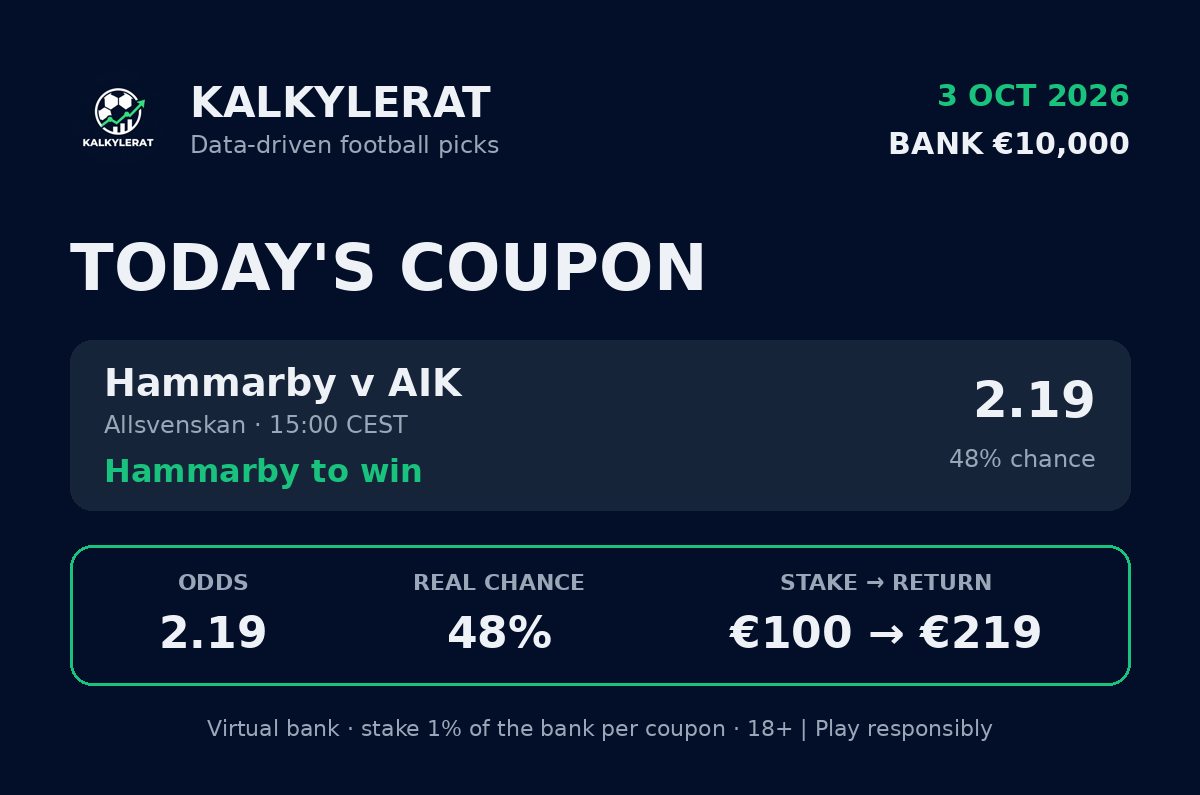
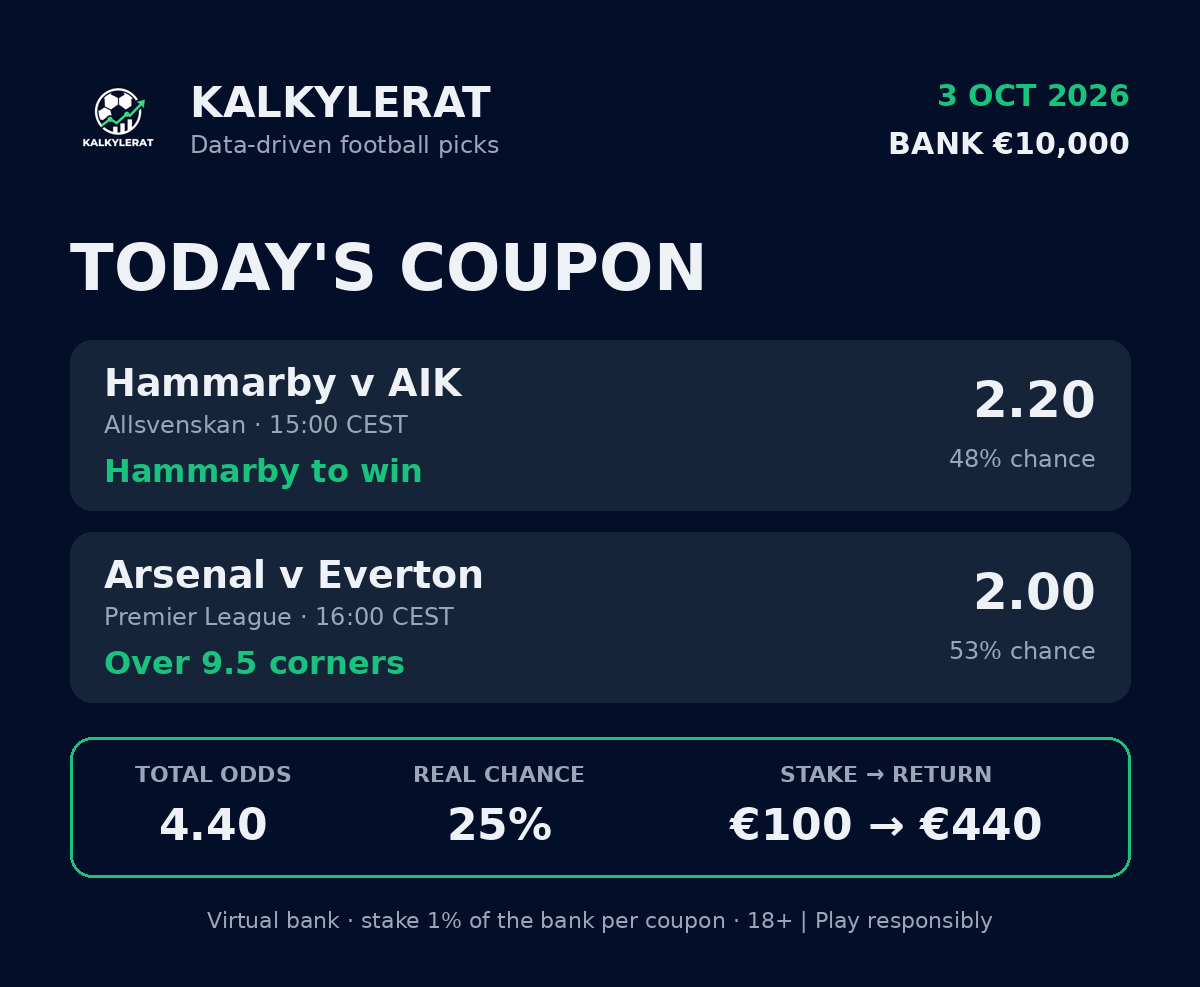
Value check uses the best price among major bookmakers
The median of major bookmakers almost never beats the sharp fair price
on high-chance picks, so days kept ending without a coupon. The best
listed price is what a follower can actually take (Bet365 and 3+ listed
sites still required); `oran_yontemi = "medyan"` restores the old rule.

Claude-Session: https://claude.ai/code/session_01SGmZc5zBFQHnf7AYuVTb4A

diff --git a/bot/model.py b/bot/model.py
@@ -172,15 +172,18 @@ def adil_olasiliklar(bahisciler: dict[str, dict[str, float]], keskin: str) -> tu
     return adil, kaynak
 
 
-def piyasa_oranlari(bahisciler: dict[str, dict[str, float]], izinli: list[str]) -> dict[str, tuple[float, str, dict[str, float]]]:
-    """Listedeki bahisçilerin medyan oranı: takipçinin çoğu sitede bulabileceği gerçekçi fiyat.
-    Kontrol edilebilsin diye bahisçi bahisçi oranlar da döner."""
+def piyasa_oranlari(bahisciler: dict[str, dict[str, float]], izinli: list[str],
+                    yontem: str = "medyan") -> dict[str, tuple[float, str, dict[str, float]]]:
+    """Listedeki büyük bahisçilerin oranı: "en_iyi" = içlerindeki en yüksek fiyat (takipçi o sitede gerçekten
+    bulabilir; değer bahsinde standart yöntem), "medyan" = ortanca. Bahisçi bahisçi oranlar da döner."""
     izin = {ad.lower() for ad in izinli}
     oranlar: dict[str, dict[str, float]] = {}
     for ad, o in bahisciler.items():
         if ad.lower() in izin:
             for pazar, oran in o.items():
                 oranlar.setdefault(pazar, {})[ad] = oran
+    if yontem == "en_iyi":
+        return {pazar: (round(max(d.values()), 2), f"best of {len(d)}", d) for pazar, d in oranlar.items()}
     return {pazar: (round(statistics.median(d.values()), 2), f"median of {len(d)}", d) for pazar, d in oranlar.items()}
 
 
@@ -204,7 +207,7 @@ def _piyasa_adaylari(bahisciler: dict[str, dict[str, float]], ayar, guvenilir_li
     """İstatistiksiz, yalnızca piyasadan: (pazar, oran, bolag, bahisçi oranları, p, değer, tür, kaynak).
     İzinli liste dışındaki liglerde keskin bahisçinin o pazarı fiyatlaması şarttır (likit, güvenilir piyasa)."""
     adil, kaynak = adil_olasiliklar(bahisciler, ayar.keskin_bahisci)
-    for pazar, (oran, bolag, bahisci_oranlari) in piyasa_oranlari(bahisciler, ayar.oran_bahiscileri).items():
+    for pazar, (oran, bolag, bahisci_oranlari) in piyasa_oranlari(bahisciler, ayar.oran_bahiscileri, ayar.oran_yontemi).items():
         if pazar not in adil or not (ayar.oran_min <= oran <= ayar.oran_max) or not oran_yeterli(bahisci_oranlari, ayar):
             continue
         keskin_var = kaynak[pazar].lower() == ayar.keskin_bahisci.lower()

diff --git a/bot/panel.py b/bot/panel.py
@@ -50,7 +50,7 @@ footer {{ color:var(--muted); font-size:13px; margin-top:32px; }}
 <div class="tile"><b>{vantande}</b><span>Pending</span></div>
 </div>
 {gunler}
-<footer>18+ | For information only, not an invitation to gamble. Gambling can be addictive – never bet money you cannot afford to lose. Sweden: Stödlinjen 020-81 91 00. Chances are fair probabilities from a sharp betting market with the bookmaker margin removed. Odds are the median of major bookmakers. Only picks whose odds are at least their fair chance are taken, so the bank can grow over time: high-chance picks win at least 65% of the time by the market's estimate, value picks pay more than their chance suggests. Bet builder odds (≈) are estimated from the goal model because bookmakers price them individually. Odds are taken at posting time and may have changed.</footer>
+<footer>18+ | For information only, not an invitation to gamble. Gambling can be addictive – never bet money you cannot afford to lose. Sweden: Stödlinjen 020-81 91 00. Chances are fair probabilities from a sharp betting market with the bookmaker margin removed. Odds are the best price available at a major bookmaker at posting time. Only picks whose odds are at least their fair chance are taken, so the bank can grow over time: high-chance picks win at least 65% of the time by the market's estimate, value picks pay more than their chance suggests. Bet builder odds (≈) are estimated from the goal model because bookmakers price them individually. Odds are taken at posting time and may have changed.</footer>
 </main></body></html>
 """
 

diff --git a/bot/__main__.py b/bot/__main__.py
@@ -186,7 +186,8 @@ def _toplu_tara(ayar, api, maclar: list[dict], bugun: str) -> tuple[dict, list]:
             if m["fixture_id"] not in oranlar:
                 continue
             adil, _ = model.adil_olasiliklar(oranlar[m["fixture_id"]], ayar.keskin_bahisci)
-            for pazar, (oran, _, _d) in model.piyasa_oranlari(oranlar[m["fixture_id"]], ayar.oran_bahiscileri).items():
+            for pazar, (oran, _, _d) in model.piyasa_oranlari(oranlar[m["fixture_id"]], ayar.oran_bahiscileri,
+                                                               ayar.oran_yontemi).items():
                 if pazar in adil and adil[pazar] >= 0.6 and ayar.oran_min <= oran <= ayar.oran_max:
                     en_iyi = max(_d.values())
                     yakin.append((adil[pazar] * oran - 1, f'{m["ev"]} v {m["dep"]} {pazar} medyan {oran:.2f} '

diff --git a/bot/config.py b/bot/config.py
@@ -34,6 +34,7 @@ class Ayarlar:
     para_birimi: str
     keskin_bahisci: str
     oran_bahiscileri: list[str]
+    oran_yontemi: str
     min_oran_bahiscisi: int
     zorunlu_bahisciler: list[str]
     keskinsiz_ek_marj: float
@@ -72,6 +73,7 @@ def yukle(path: Path = ROOT / "ayarlar.toml") -> Ayarlar:
         para_birimi=kasa["para_birimi"],
         keskin_bahisci=t["bahisciler"]["keskin"],
         oran_bahiscileri=list(t["bahisciler"]["oran_bahiscileri"]),
+        oran_yontemi=t["bahisciler"].get("oran_yontemi", "medyan"),
         min_oran_bahiscisi=int(t["bahisciler"]["min_oran_bahiscisi"]),
         zorunlu_bahisciler=list(t["bahisciler"]["zorunlu_bahisciler"]),
         keskinsiz_ek_marj=float(t["bahisciler"]["keskinsiz_ek_marj"]),

diff --git a/tests/test_bot.py b/tests/test_bot.py
@@ -43,6 +43,7 @@ def test_adil_olasilik_keskin_yoksa_ortalama():
 def test_piyasa_orani_medyan_ve_sadece_listedeki_bahisciler():
     b = {"Unibet": {"MS1": 2.1}, "Bet365": {"MS1": 2.2}, "Betano": {"MS1": 2.0}, "1xBet": {"MS1": 2.6}}
     oran, bolag, detay = model.piyasa_oranlari(b, ["Unibet", "Bet365", "Betano"])["MS1"]
+    assert model.piyasa_oranlari(b, ["Unibet", "Bet365", "Betano"], "en_iyi")["MS1"][:2] == (2.2, "best of 3")
     assert (oran, bolag) == (2.1, "median of 3") and len(detay) == 3
 
 
